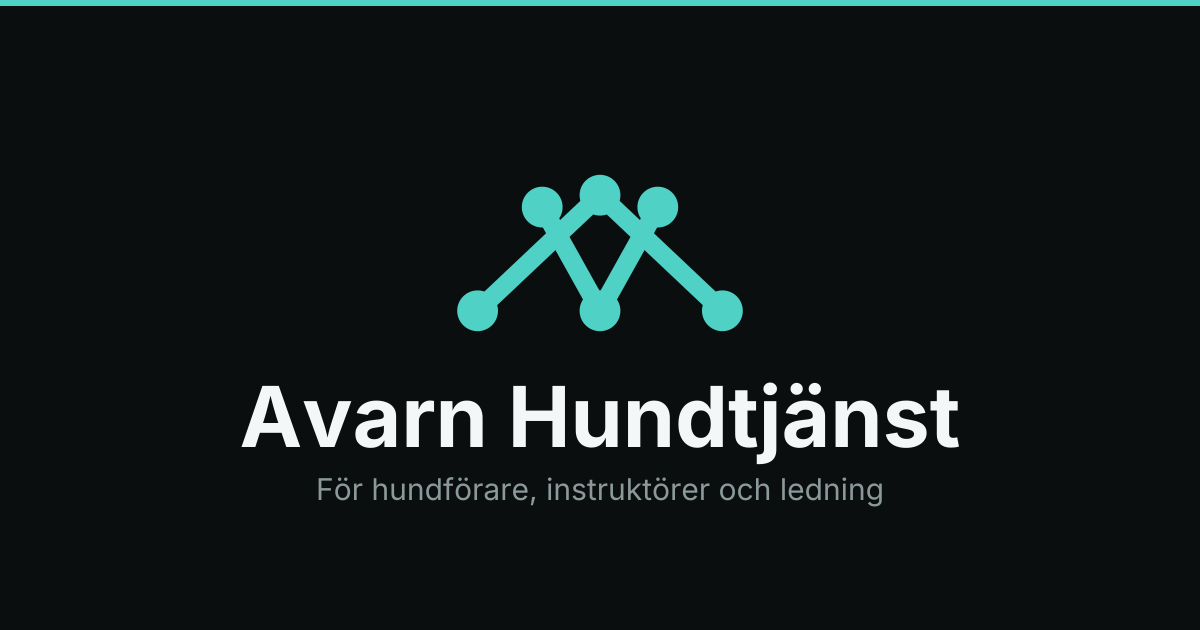
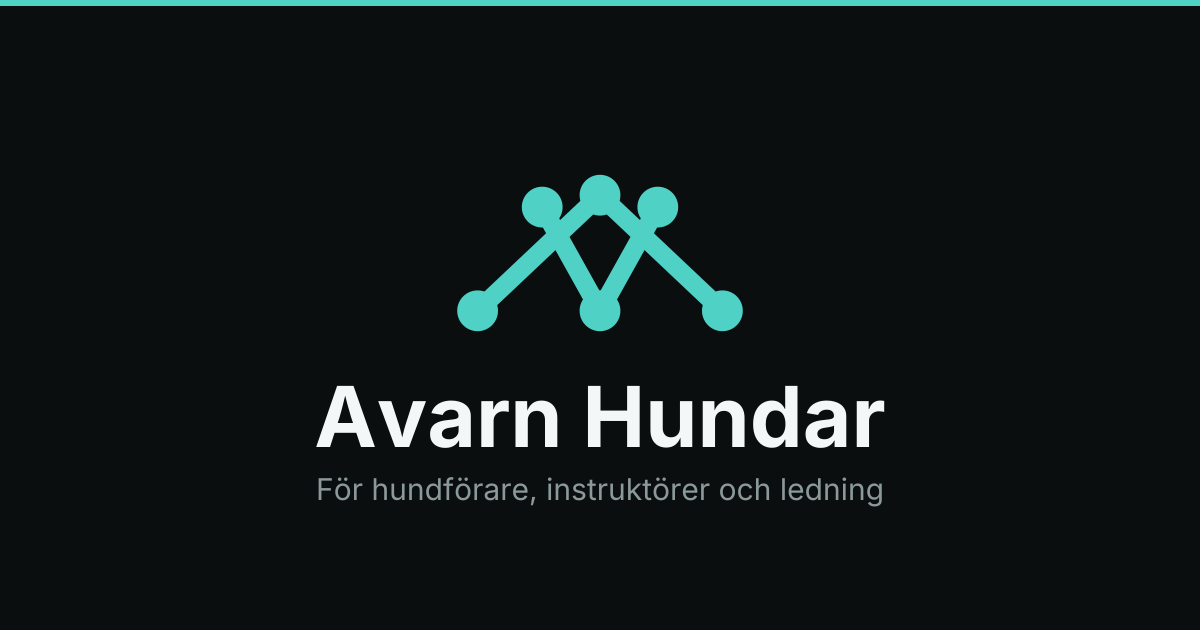
Byt namn på appen till Avarn Hundar
Namnet satt på tjugo ställen: sidtiteln och dess mall, manifestets name
och short_name, inloggningssidans rubrik, raden under logotypen på Mer,
delningskortets titel och bild, samt kommentarerna överst i schemat,
seed-filen och den genererade SQL:en.

Delningsbildens text ligger som banor, så den sattes om ur Inter och
rasterades på nytt. Ingen data ändrades – namnet fanns bara i kommentarer
på databassidan, inte i några rader.

Changed region(s): [[0.185, 0.6032, 0.8017, 0.754]]

diff --git a/src/app/layout.tsx b/src/app/layout.tsx
@@ -28,8 +28,8 @@ const BESKRIVNING =
 export const metadata: Metadata = {
   metadataBase: new URL(ADRESS),
   title: {
-    default: "Avarn Hundtjänst",
-    template: "%s · Avarn Hundtjänst",
+    default: "Avarn Hundar",
+    template: "%s · Avarn Hundar",
   },
   description: BESKRIVNING,
   manifest: "/manifest.webmanifest",
@@ -39,13 +39,13 @@ export const metadata: Metadata = {
    *
    * Titeln sätts här och ärvs av alla sidor, i stället för att följa
    * sidans egen. Utan den blev kortet döpt efter den undersida man råkade
-   * stå på när länken kopierades – "Mer · Avarn Hundtjänst" – vilket inte
+   * stå på när länken kopierades – "Mer · Avarn Hundar" – vilket inte
    * säger mottagaren någonting.
    */
   openGraph: {
     type: "website",
-    siteName: "Avarn Hundtjänst",
-    title: "Avarn Hundtjänst",
+    siteName: "Avarn Hundar",
+    title: "Avarn Hundar",
     description: BESKRIVNING,
     locale: "sv_SE",
     url: "/",
@@ -54,13 +54,13 @@ export const metadata: Metadata = {
         url: "/og.png",
         width: 1200,
         height: 630,
-        alt: "Avarn Hundtjänst",
+        alt: "Avarn Hundar",
       },
     ],
   },
   twitter: {
     card: "summary_large_image",
-    title: "Avarn Hundtjänst",
+    title: "Avarn Hundar",
     description: BESKRIVNING,
     images: ["/og.png"],
   },
@@ -77,7 +77,7 @@ export const metadata: Metadata = {
   appleWebApp: {
     capable: true,
     statusBarStyle: "black-translucent",
-    title: "Avarn Hundtjänst",
+    title: "Avarn Hundar",
   },
 };
 

diff --git a/e2e/atkomst.spec.ts b/e2e/atkomst.spec.ts
@@ -121,7 +121,7 @@ test("delningskortet är komplett och når mottagaren utan inloggning", async ({
 
   // Titeln ska vara appens, inte den undersida länken råkade kopieras från.
   expect(html).toContain(
-    '<meta property="og:title" content="Avarn Hundtjänst"/>',
+    '<meta property="og:title" content="Avarn Hundar"/>',
   );
   // Bildadressen måste vara absolut; Open Graph tillåter inga relativa.
   const bild = /<meta property="og:image" content="(https?:\/\/[^"]+)"/.exec(

diff --git a/e2e/rokprov.spec.ts b/e2e/rokprov.spec.ts
@@ -10,7 +10,7 @@ import { KONTON, loggaIn } from "./hjalp";
 test("utloggad skickas till inloggningssidan", async ({ page }) => {
   await page.goto("/hem");
   await expect(page).toHaveURL(/\/login/);
-  await expect(page.getByRole("heading", { name: "Hundtjänst" })).toBeVisible();
+  await expect(page.getByRole("heading", { name: "Hundar" })).toBeVisible();
 });
 
 test("fel lösenord avslöjar inte om kontot finns", async ({ page }) => {

diff --git a/src/app/login/page.tsx b/src/app/login/page.tsx
@@ -21,7 +21,7 @@ export default async function LoginPage({
           <AvarnLogo size="lg" />
         </div>
 
-        <h1 className="mb-1 text-center text-xl font-semibold">Hundtjänst</h1>
+        <h1 className="mb-1 text-center text-xl font-semibold">Hundar</h1>
         <p className="mb-8 text-center text-sm text-fg-muted">
           Operativt stöd för hundförare, instruktörer och ledning.
         </p>

diff --git a/src/app/(app)/mer/page.tsx b/src/app/(app)/mer/page.tsx
@@ -147,7 +147,7 @@ export default async function MorePage() {
 
       <div className="mt-10 flex flex-col items-center gap-2 pb-4">
         <AvarnLogo />
-        <p className="text-xs text-fg-dim">Hundtjänst</p>
+        <p className="text-xs text-fg-dim">Hundar</p>
       </div>
     </AppShell>
   );

diff --git a/prisma/seed.ts b/prisma/seed.ts
@@ -1,5 +1,5 @@
 /**
- * Seed-data för Avarn Hundtjänst.
+ * Seed-data för Avarn Hundar.
  *
  * Innehåller ett komplett, sammanhängande exempel: fem regioner, ett antal
  * ekipage, träningshistorik, planerad träning, uppdrag, operativa rapporter

diff --git a/DOKUMENTATION.md b/DOKUMENTATION.md
@@ -1,4 +1,4 @@
-# Avarn Hundtjänst – dokumentation
+# Avarn Hundar – dokumentation
 
 Operativt stöd för Avarn Securitys hundverksamhet. En mobil först-webbapp
 (PWA) för hundförare i fält, med en adminpanel för instruktörer och ledning
@@ -816,7 +816,7 @@ betyder att stilmallen också saknas.
 Klistras adressen in i ett SMS eller en chatt ritar mottagarens klient ett
 kort ur sidans Open Graph-taggar. Utan dem blir det en naken textrad, och
 med sidans egen titel blir det döpt efter den undersida länken råkade
-kopieras från – "Mer · Avarn Hundtjänst".
+kopieras från – "Mer · Avarn Hundar".
 
 Därför sätts `openGraph.title` i `src/app/layout.tsx` till appens namn och
 ärvs av alla sidor. Bilden är `public/og.png`, 1200×630, och adressen till

diff --git a/README.md b/README.md
@@ -1,4 +1,4 @@
-# Avarn Hundtjänst
+# Avarn Hundar
 
 Operativt stöd för Avarn Securitys hundverksamhet: hundförare, instruktörer,
 regional och nationell ledning. Byggd som en mobil först-webbapp (PWA) i
